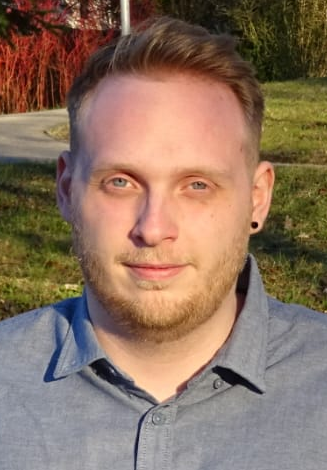
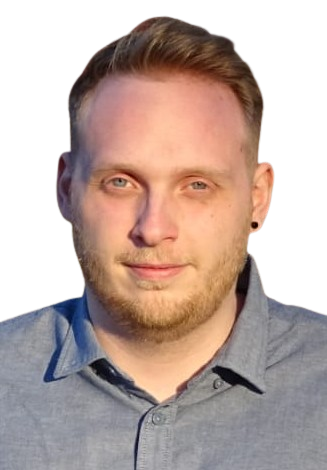
Third commit

diff --git a/src/app/about-me-section/about-me/about-me.component.scss b/src/app/about-me-section/about-me/about-me.component.scss
@@ -9,7 +9,7 @@ section{
     top: 120px;
     left: 0;
     >img{
-        @include buttonStyle(30px, 570px, 570px, #FFFFFF);
+        @include buttonStyle(30px, auto, 470px, #FFFFFF);
     }
 }
 .aboutMeBox{
@@ -66,9 +66,9 @@ section{
 }
 @media (max-width: 1530px) {
     .aboutMePicture{
-        top: 310px;
+        top: 220px;
         >img{
-            @include buttonStyle(30px, 420px, 400px, #FFFFFF);
+            @include buttonStyle(30px, auto, 400px, #FFFFFF);
         }
     }
     .aboutMeBox{
@@ -163,7 +163,7 @@ section{
     }
     .aboutMePicture{
         >img{
-            @include buttonStyle(30px, 340px, 340px, #FFFFFF);
+            @include buttonStyle(30px, auto, 340px, #FFFFFF);
         }
     }
 }
@@ -178,7 +178,7 @@ section{
     }
     .aboutMePicture{
         >img{
-            @include buttonStyle(30px, 300px, 300px, #FFFFFF);
+            @include buttonStyle(30px, auto, 300px, #FFFFFF);
         }
     }
 }

diff --git a/src/app/about-me-section/about-me/about-me.component.html b/src/app/about-me-section/about-me/about-me.component.html
@@ -1,7 +1,7 @@
 <main>
     <section>
         <div id="aboutMeSection" class="aboutMePicture">
-            <img src="../../../assets/img/profilPicture.png" >
+            <img src="../../../assets/img/profilPicture1.png" >
         </div>
         <div [ngClass]="{'germanHeight': currentLanguage === 'de', 'englishHeight': currentLanguage === 'en'}" class="aboutMeBoxHeadline">
             <span class="karlaFont sectionHeadlineSmall">{{translations.aboutMe.aboutMeSmallHeadline}}</span>

diff --git a/src/app/projects-section/projects/projects.component.scss b/src/app/projects-section/projects/projects.component.scss
@@ -50,7 +50,7 @@ section{
         background-color: rgb(47,91,84);
     }
 }
-.projectTextImg:hover .projectsImgBox{
+.projectText:hover + .projectsImgBox {
     display: flex;
 }
 .projectsImgBox{
